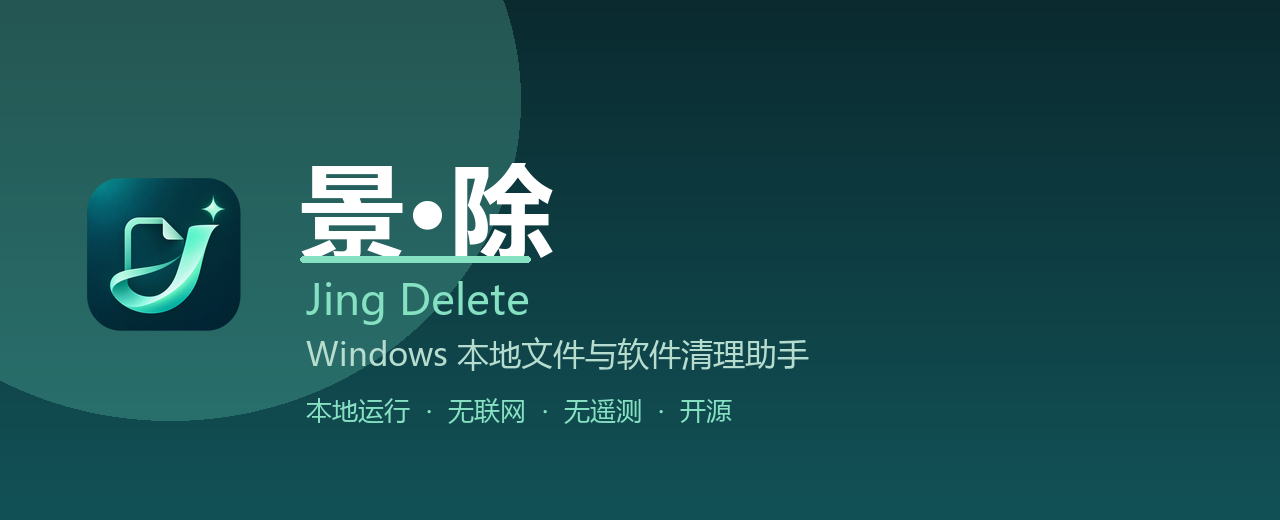
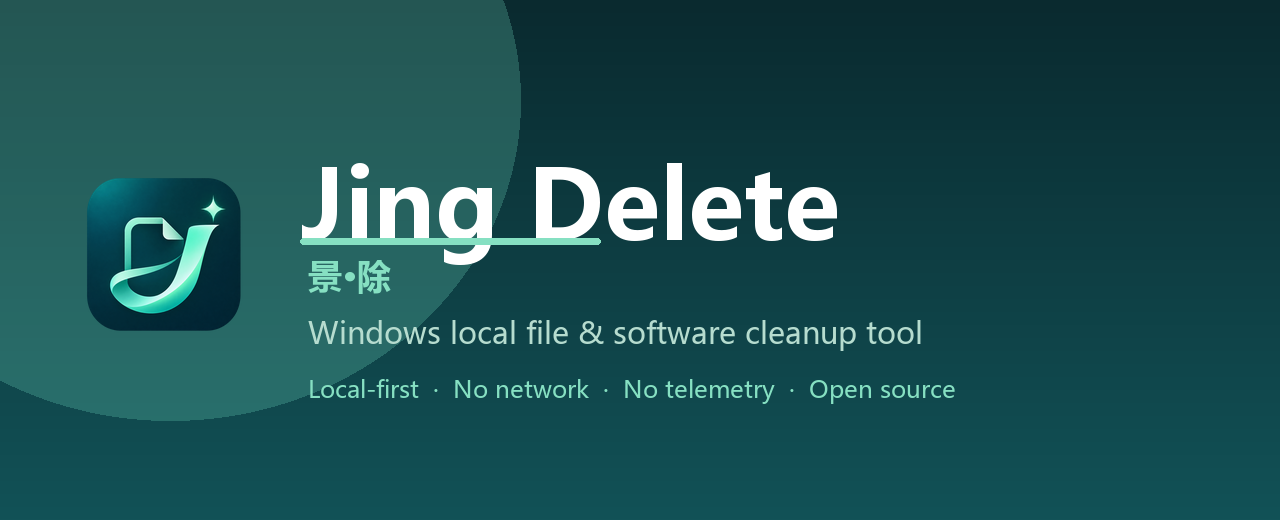
Translate README and documentation imagery to English

Changed region(s): [[0.2188, 0.3077, 0.7188, 0.7077], [0.2188, 0.7385, 0.75, 0.8308]]

diff --git a/README.md b/README.md
@@ -1,164 +1,164 @@
-# 景·除 / Jing Delete
+# Jing Delete / 景·除
 
 ![banner](screenshots/banner.png)
 
-[![最新版本](https://img.shields.io/github/v/release/jingpanlong/JingDelete?label=最新版本)](https://github.com/jingpanlong/JingDelete/releases)
-[![总下载量](https://img.shields.io/github/downloads/jingpanlong/JingDelete/total)](https://github.com/jingpanlong/JingDelete/releases)
-[![平台](https://img.shields.io/badge/平台-Windows-blue)](https://github.com/jingpanlong/JingDelete)
+[![Latest release](https://img.shields.io/github/v/release/jingpanlong/JingDelete?label=latest)](https://github.com/jingpanlong/JingDelete/releases)
+[![Total downloads](https://img.shields.io/github/downloads/jingpanlong/JingDelete/total)](https://github.com/jingpanlong/JingDelete/releases)
+[![Platform](https://img.shields.io/badge/platform-Windows-blue)](https://github.com/jingpanlong/JingDelete)
 [![.NET](https://img.shields.io/badge/.NET-Framework%204.7.2%2B-512BD4)](https://docs.microsoft.com/dotnet/framework/)
-[![许可证](https://img.shields.io/github/license/jingpanlong/JingDelete)](LICENSE)
+[![License](https://img.shields.io/github/license/jingpanlong/JingDelete)](LICENSE)
 
-**景·除（Jing Delete）** 是一款 Windows 本地文件与软件清理工具：文件删除、软件卸载、残留清理、空间整理与开机启动管理。一切操作都在本机完成，**无联网模块、无遥测**。危险操作（删除、清理、权限修改）均要求显式确认。
+**Jing Delete (景·除)** is a Windows local file & software cleanup tool: file deletion, software uninstall, leftover cleanup, disk-space tidying, and startup management. Everything runs on your machine — **no networking, no telemetry**. Dangerous operations (deletion, cleanup, permission changes) always require explicit confirmation.
 
-> 作者联系：微信公众号「景同志」，小红书「景同学」。软件「关于」页内置 GitHub 开源地址与下载入口。
+> Author: WeChat Official Account「景同志」, Xiaohongshu「景同学」. The app's "About" page includes the GitHub repository link and download entry.
 
 ---
 
-## 快速下载
+## Quick Download
 
-| 版本 | 说明 | 下载 |
+| Version | Notes | Download |
 | --- | --- | --- |
-| 便携版（单文件） | `JingChu.exe`，解压即用，依赖系统 .NET Framework | [JingChu.exe](https://github.com/jingpanlong/JingDelete/releases/latest/download/JingChu.exe) |
-| 安装版 | `JingChu-Setup.exe`，按当前用户安装，含开始菜单与卸载入口 | [JingChu-Setup.exe](https://github.com/jingpanlong/JingDelete/releases/latest/download/JingChu-Setup.exe) |
+| Portable (single file) | `JingChu.exe` — extract and run; relies on the system .NET Framework | [JingChu.exe](https://github.com/jingpanlong/JingDelete/releases/latest/download/JingChu.exe) |
+| Installer | `JingChu-Setup.exe` — per-user install with Start Menu and uninstall entry | [JingChu-Setup.exe](https://github.com/jingpanlong/JingDelete/releases/latest/download/JingChu-Setup.exe) |
 
-也可在 [Releases](https://github.com/jingpanlong/JingDelete/releases) 页面查看历史版本与校验信息。
+You can also browse historical versions and checksums on the [Releases](https://github.com/jingpanlong/JingDelete/releases) page.
 
-> 程序未经数字签名，系统可能显示「未知发布者」。本版本不申请或伪造签名；如需验证，请比对发布页的 SHA-256。
-
----
-
-## 主要功能
-
-![主要功能](screenshots/features.png)
-
-1. **文件处理** — 拖拽 / 选择 / 粘贴路径；长路径、异常末尾点空格名称、Unicode 名称处理；删除前预览、占用进程查询、同卷重命名移动。
-2. **软件卸载** — 读取传统桌面软件卸载登记，调用软件原卸载器；支持 Ctrl / Shift 多选与批量队列，结束后统一列出注册表候选残留。
-3. **残留清理** — 按关键词扫描 SOFTWARE 直接子键、卸载登记与常见目录第一层文件夹；结果初始不勾选，注册表修改前强制导出备份。
-4. **空间整理** — 到期临时文件、空文件夹、大文件、零字节文件四种扫描；结果可导出 CSV。
-5. **开机启动** — 注册表 Run 项与用户 / 公共启动文件夹统一管理，文件项目可备份后禁用与恢复。
-6. **备份与日志** — 注册表修改前导出备份，备份可恢复与导入；每日日志、实时结果、今日日志可导出。
-7. **本地优先** — 无联网、无遥测，备份与日志均保存在本机用户目录。
-8. **开源** — 源码开放，欢迎提交 Issue 与 Pull Request。
+> The program is not code-signed, so Windows may show an "Unknown publisher" warning. This version does not request or forge a signature; to verify, compare the SHA-256 shown on the release page.
 
 ---
 
-## 目录
+## Key Features
 
-- [编译](#编译)
-- [已实现功能](#已实现功能)
-- [使用流程](#使用流程)
-- [数据与运行要求](#数据与运行要求)
-- [能力边界](#能力边界)
-- [测试](#测试)
-- [文件结构](#文件结构)
-- [开源与贡献](#开源与贡献)
-- [许可证](#许可证)
+![Key Features](screenshots/features.png)
+
+1. **File operations** — drag & drop / picker / paste paths; long-path, trailing-dot/space, and Unicode name handling; pre-delete preview, lock/occupancy detection, same-volume rename & move.
+2. **Software uninstall** — reads classic desktop uninstall registry entries and launches each program's own uninstaller; Ctrl/Shift multi-select and batch queue, with a unified post-uninstall registry-candidate list.
+3. **Leftover cleanup** — keyword scan of top-level SOFTWARE subkeys, uninstall entries, and common directories' first level; results start unchecked; registry is always backed up before modification.
+4. **Disk space** — four scans: stale temp files, empty folders, large files, zero-byte files; results exportable to CSV.
+5. **Startup management** — registry Run keys and per-user/public Startup folders in one place; Startup-folder items can be disabled (with backup) and restored.
+6. **Backup & logs** — registry backups before modification, restorable and importable; daily logs, live results, and today's log exportable.
+7. **Local-first** — no networking, no telemetry; backups and logs stay on the local machine.
+8. **Open source** — source available; issues and pull requests welcome.
 
 ---
 
-## 编译
+## Table of Contents
 
-Windows 10/11，.NET Framework 4.7.2 或更新版本。无需下载 NuGet 包或安装 .NET SDK。
+- [Build](#build)
+- [Implemented Features](#implemented-features)
+- [Usage Flow](#usage-flow)
+- [Data & Requirements](#data--requirements)
+- [Capability Boundaries](#capability-boundaries)
+- [Testing](#testing)
+- [File Structure](#file-structure)
+- [Open Source & Contributing](#open-source--contributing)
+- [License](#license)
 
-在本目录运行 Windows PowerShell：
+---
+
+## Build
+
+Windows 10/11, .NET Framework 4.7.2 or later. No NuGet packages or .NET SDK required.
+
+In this directory, run Windows PowerShell:
 
 ```powershell
 powershell.exe -NoProfile -ExecutionPolicy Bypass -File .\build.ps1
 ```
 
-输出：`bin\JingChu.exe`、`bin\JingChu-Setup.exe`。两个都是单文件；便携程序依赖系统 .NET Framework，不是包含整个运行时的原生 EXE。安装器嵌入编译后的程序，并将自身复制为卸载器。
+Outputs: `bin\JingChu.exe`, `bin\JingChu-Setup.exe`. Both are single-file; the portable build depends on the system .NET Framework rather than bundling the whole runtime. The installer embeds the compiled program and copies itself as the uninstaller.
 
-编译使用 Windows Framework 目录中的 C# 编译器。存在 4.7.2 引用程序集时使用其中的 Microsoft.VisualBasic；否则尝试 Framework 目录中的相应程序集。`app.ico` 是随源码提供的程序图标；`create-icon.ps1` 可重新生成。
+The build uses the C# compiler from the Windows Framework directory. When the 4.7.2 reference assemblies are present it uses Microsoft.VisualBasic from there; otherwise it falls back to the Framework directory's assembly. `app.ico` is provided with the source; `create-icon.ps1` can regenerate it.
 
-## 已实现功能
+## Implemented Features
 
-1. 多文件/文件夹拖拽；文件选择、文件夹选择、手动输入路径。
-2. 目标列表、勾选处理、移出列表、逐项状态反馈。
-3. 文件/目录/链接属性查看，递归统计文件数、目录数和大小。
-4. 回收站删除；永久删除；Unicode、长路径、异常末尾点/空格名称处理。
-5. 删除前清除只读/隐藏/系统属性；管理员可选逐对象取得所有权、授予当前用户权限。
-6. 同卷重命名/移动，不覆盖已有目标。
-7. 使用 Restart Manager 查询占用进程；请求正常关闭；经确认后结束非系统进程，并核验进程创建时间。
-8. 管理员可将本地目标按子项到父目录的顺序加入 Windows 重启删除队列，不自动重启。
-9. 桌面软件卸载登记扫描、名称/发布者搜索、运行登记的卸载器、打开安装目录。
-10. 按关键词扫描软件候选残留：常用目录第一层文件夹、SOFTWARE 直接子键、卸载登记。
-11. 残留初始不勾选，逐项确认清理；注册表修改前强制导出备份。
-12. 32/64 位注册表视图备份及导入；备份列表和目录入口。
-13. 当前用户/本机 Run 启动项列表，备份后禁用，使用备份恢复。
-14. 每日日志、实时结果、日志目录、今日日志导出。
-15. 后台执行、取消后续步骤、管理员重启、系统目录拦截。
-16. 当前用户安装、开始菜单与可选桌面快捷方式、系统卸载入口、独立卸载器。
-17. 八个中文页面、软件说明、隐私说明和作者联系方式（含 GitHub 开源地址）。
+1. Multi-file/folder drag & drop; file picker, folder picker, manual path input.
+2. Target list, checkbox handling, remove from list, per-item status feedback.
+3. File/directory/link property view; recursive file/directory counts and size.
+4. Recycle-bin deletion; permanent deletion; Unicode, long-path, trailing-dot/space name handling.
+5. Clear read-only/hidden/system attributes before deletion; admins may optionally take ownership and grant the current user permissions per object.
+6. Same-volume rename/move, without overwriting existing targets.
+7. Restart Manager occupancy detection; request graceful close; after confirmation, terminate non-system processes and verify process creation time.
+8. Admins may queue local targets (children before parents) for Windows restart-delete, without auto-reboot.
+9. Desktop-software uninstall-entry scan, name/publisher search, launch the registered uninstaller, open install directory.
+10. Keyword scan for leftover candidates: common directories' first level, SOFTWARE direct subkeys, uninstall entries.
+11. Leftovers start unchecked; confirm each before cleanup; registry is force-backed-up before modification.
+12. 32/64-bit registry-view backup & import; backup list and directory entry.
+13. Current-user / local-machine Run startup list; disable after backup, restore from backup.
+14. Daily logs, live results, logs directory, today's log export.
+15. Background execution, cancel remaining steps, admin restart, system-directory interception.
+16. Per-user install, Start Menu and optional desktop shortcut, system uninstall entry, standalone uninstaller.
+17. Eight Chinese pages, software notes, privacy notes, and author contact (including the GitHub open-source link).
 
-## 使用流程
+## Usage Flow
 
-**文件**：添加/拖拽 → 核对并勾选 → 优先回收站；特殊路径可选永久删除。永久删除及重启排程需输入 `DELETE`。权限修复默认为关闭，启用后可能改变原权限，工具不备份原 ACL。
+**Files**: add/drag → review & check → prefer Recycle Bin; choose permanent delete for special paths. Permanent delete and restart-delete require typing `DELETE`. Permission repair is off by default; enabling it may change original permissions and the tool does not back up the original ACL.
 
-**软件**：刷新软件列表 → 选择软件 → 运行卸载 → 完成后刷新 → 输入独有关键词扫描残留 → 核对每个候选项 → 勾选清理。删除卸载登记本身不会卸载软件，目录和注册表键可能被同厂商多个产品共用。
+**Software**: refresh list → select → run uninstall → refresh after completion → enter a unique keyword to scan leftovers → review each candidate → check and clean. Deleting an uninstall entry does not uninstall the software; directories and registry keys may be shared by multiple products from the same vendor.
 
-**启动项**：刷新 → 选中 → 禁用。备份包含整个 Run 键，恢复时会合并备份中的所有值，可能重新启用其他启动项。
+**Startup**: refresh → select → disable. The backup covers the entire Run key; restoring merges all values from the backup and may re-enable other startup items.
 
-## 数据与运行要求
+## Data & Requirements
 
-- 备份：`%LOCALAPPDATA%\JingChu\Backups`。
-- 日志：`%LOCALAPPDATA%\JingChu\Logs`。路径和软件名称可能出现在日志中。
-- 默认安装：`%LOCALAPPDATA%\Programs\JingChu`；按当前用户安装。
-- 卸载景·除保留备份和日志，不递归删除安装目录中的未知文件。
-- 普通文件操作无需管理员；本机注册表、权限修复和重启后删除可能需要管理员授权。
-- 管理员重启不保留当前列表；若输入的是另一管理员账户，HKCU、用户目录和备份位置也会切换到该账户。
-- 以管理员权限运行时，Windows 可能阻止从普通权限资源管理器拖拽文件，请使用添加按钮或粘贴路径。
-- 程序未经数字签名，系统可能显示未知发布者；本版本不申请或伪造签名。
-- 作者联系方式按用户提供的名称展示，未附加未经核实的账号链接。
+- Backups: `%LOCALAPPDATA%\JingChu\Backups`.
+- Logs: `%LOCALAPPDATA%\JingChu\Logs`. Paths and software names may appear in logs.
+- Default install: `%LOCALAPPDATA%\Programs\JingChu`; per-user install.
+- Uninstalling Jing Delete keeps backups and logs, and does not recursively delete unknown files in the install directory.
+- Ordinary file operations need no admin; local-machine registry, permission repair, and restart-delete may require admin.
+- Admin restart discards the current list; if run as a different admin account, HKCU, the user directory, and backup location also switch to that account.
+- Running as admin, Windows may block dragging files from a non-elevated Explorer; use the Add button or paste paths.
+- The program is not code-signed; Windows may show an unknown publisher. This version does not request or forge a signature.
+- Author contact is shown by the names you provided; no unverified account links are attached.
 
-## 能力边界
+## Capability Boundaries
 
-不提供内核驱动，不绕过杀毒/反作弊自保护，不处理 Windows 内部目录、磁盘/共享根目录、用户根目录、程序和备份根目录等。WindowsApps 与 ProgramData\Microsoft 也被拦截。
+No kernel driver; does not bypass antivirus/anti-cheat self-protection; does not touch Windows internal directories, disk/share roots, user root, or the program/backup root. WindowsApps and ProgramData\Microsoft are also blocked.
 
-目录联接点和符号链接不递归进入目标；权限修复也拒绝对链接执行 takeown。目录在操作过程中被其他程序恶意替换的竞争情况不属于本版本的防御边界；处理前应关闭相关软件。
+Directory junctions and symbolic links are not recursed into; permission repair also refuses takeown on links. Race conditions where a directory is maliciously replaced mid-operation are outside this version's defensive boundary; close related software before processing.
 
-回收站模式拒绝根目标为链接或长路径的项目。是否支持回收由 Windows 决定，系统对网络或特殊设备可能显示额外对话框；注意阅读，必要时取消。永久删除失败、取消或重启排程失败可能已处理部分子项；没有事务回滚。重启排程成功也不保证开机最终删除，不提供排程撤销。
+Recycle-Bin mode rejects link or long-path root targets. Whether recycling is allowed is decided by Windows; for network or special devices Windows may show extra dialogs — read carefully and cancel if needed. A failed/cancelled permanent delete or restart-delete may have already processed some children; there is no transaction rollback. A successful restart-delete schedule does not guarantee final deletion at boot, and there is no built-in undo.
 
-软件扫描只读传统桌面软件卸载登记，不列出全部商店应用。残留是名称匹配候选项，不是全盘、全注册表扫描，也不是智能判断“无用键”。未实现驱动卸载、浏览器清理、重复文件清理、系统修复等未列明功能。
+Software scan reads only classic desktop uninstall entries, not all Store apps. Leftovers are name-matched candidates, not a full-disk/full-registry scan and not an intelligent "useless key" judgment. Driver uninstall, browser cleanup, duplicate-file cleanup, and system repair are not implemented.
 
-占用查询受 Restart Manager 能力和系统策略限制。文件/目录上没有查到进程并不等于没有占用。为保护系统，禁止强制结束 Windows 目录中的程序、系统会话和本程序。
+Occupancy detection is limited by Restart Manager capability and system policy. No detected process on a file/directory does not mean it is unoccupied. For system safety, terminating programs inside Windows directories, system sessions, and this program itself is forbidden.
 
-## 测试
+## Testing
 
 ```powershell
 powershell.exe -NoProfile -ExecutionPolicy Bypass -File .\test.ps1 -TestRoot D:\some-workspace\new-test-directory
 ```
 
-测试根目录必须尚不存在。测试程序仅创建专用临时文件、专用 HKCU 测试键、测试卸载登记与测试快捷方式，不操作真实软件；注册表测试键在 finally 中清理。测试文件和备份留在指定目录供检查。Restart Manager 和注册表导出需要允许访问 Windows 相应服务/注册表；受限沙箱可能拒绝。
+The test root must not exist yet. The test program creates only dedicated temp files, a dedicated HKCU test key, a test uninstall entry, and a test shortcut — it does not touch real software; the registry test key is cleaned in `finally`. Test files and backups remain in the specified directory for inspection. Restart Manager and registry export need access to the relevant Windows services/registry; a restricted sandbox may deny them.
 
-当前 123 项自动检查通过，新增按钮背景像素、图标提取、搜索和刷新检查，原有回归覆盖路径保护、Unicode/只读、长路径及异常名称、链接目标保留、取消、移动不覆盖、锁定文件错误及释放、占用进程识别、注册表备份删除恢复、架构视图、模拟卸载器调用、安装器解包/快捷方式/登记、卸载及退出后的自删除、保留未知文件、安装界面及八页渲染。尚未对真实第三方卸载、UAC、管理员 ACL 修复、真实重启排程、交互式回收站进行完整端到端测试。
+123 automated checks currently pass, plus new button-background pixel, icon extraction, search, and refresh checks, and the original regression covering path protection, Unicode/read-only, long paths and anomalous names, link-target preservation, cancel, move-without-overwrite, locked-file errors and release, occupancy identification, registry backup/delete/restore, architecture views, simulated uninstaller invocation, installer unpack/shortcut/registration, self-delete after uninstall and exit, preserving unknown files, install UI and eight-page rendering. Full end-to-end testing of real third-party uninstalls, UAC, admin ACL repair, real restart-delete, and interactive Recycle Bin is not yet done.
 
-## 文件结构
+## File Structure
 
-- `Core.cs`：Windows 原生 API、文件处理、注册表与软件管理。
-- `Extras.cs`：空间扫描、候选项复核删除、启动文件夹备份恢复、CSV 和预览。
-- `App.cs`：中文 WinForms 主界面。
-- `Screens.cs`：首页、空间整理、启动管理、作者页面和预览窗口。
-- `Design.cs`：统一配色、圆角卡片、按钮、图形导航和列表样式。
-- `SoftwareIcons.cs`：软件图标路径解析、资源提取和缺失回退。
-- `Setup.cs`：安装器与卸载器。
-- `Tests.cs`：隔离功能测试及页面渲染。
-- `build.ps1` / `test.ps1`：离线编译与测试脚本。
-- `app.manifest` / `AssemblyInfo.cs` / `app.ico`：程序元数据。
-- `Brand.png` / `BRAND.md`：透明 Logo 与图像生成提示词、资产说明。
-- `screenshots/`：README 配图（横幅与功能图）。
+- `Core.cs`: Windows native APIs, file handling, registry & software management.
+- `Extras.cs`: space scanning, candidate review/delete, Startup-folder backup/restore, CSV & preview.
+- `App.cs`: Chinese WinForms main UI.
+- `Screens.cs`: home, space tidying, startup management, author page, preview window.
+- `Design.cs`: unified colors, rounded cards, buttons, graphic navigation, list styles.
+- `SoftwareIcons.cs`: software icon path resolution, resource extraction, missing fallback.
+- `Setup.cs`: installer & uninstaller.
+- `Tests.cs`: isolated functional tests and page rendering.
+- `build.ps1` / `test.ps1`: offline build & test scripts.
+- `app.manifest` / `AssemblyInfo.cs` / `app.ico`: program metadata.
+- `Brand.png` / `BRAND.md`: transparent logo and image-generation prompts/asset notes.
+- `screenshots/`: README imagery (banner and feature graphic).
 
-源码中的 `AppDomain` 测试数据槽仅由测试入口设置，正常程序没有对应的命令行或环境变量入口。
+The `AppDomain` test-data slot in source is set only by the test entry point; the normal program has no corresponding command-line or environment entry.
 
-## 开源与贡献
+## Open Source & Contributing
 
-本仓库为 **景·除 / Jing Delete** 的开放源码：
+This repository is the open-source home of **Jing Delete (景·除)**:
 
-- 仓库地址：<https://github.com/jingpanlong/JingDelete>
-- 问题反馈与功能建议：<https://github.com/jingpanlong/JingDelete/issues>
-- 发布与下载：<https://github.com/jingpanlong/JingDelete/releases>
+- Repository: <https://github.com/jingpanlong/JingDelete>
+- Issues & suggestions: <https://github.com/jingpanlong/JingDelete/issues>
+- Releases & downloads: <https://github.com/jingpanlong/JingDelete/releases>
 
-欢迎提交 Pull Request。提交前请运行 `test.ps1`（见上文测试说明）确认回归通过。
+Pull requests are welcome. Please run `test.ps1` (see Testing above) and confirm the regression passes before submitting.
 
-## 许可证
+## License
 
-本项目以 [MIT 许可证](LICENSE) 开源。 Logo 与品牌视觉（含 `Brand.png`、`app.ico`）以相同许可证授权，但本版本未进行商标检索或注册。
+Released under the [MIT License](LICENSE). The logo and brand visuals (including `Brand.png`, `app.ico`) are licensed the same way, but no trademark search or registration has been performed for this version.
